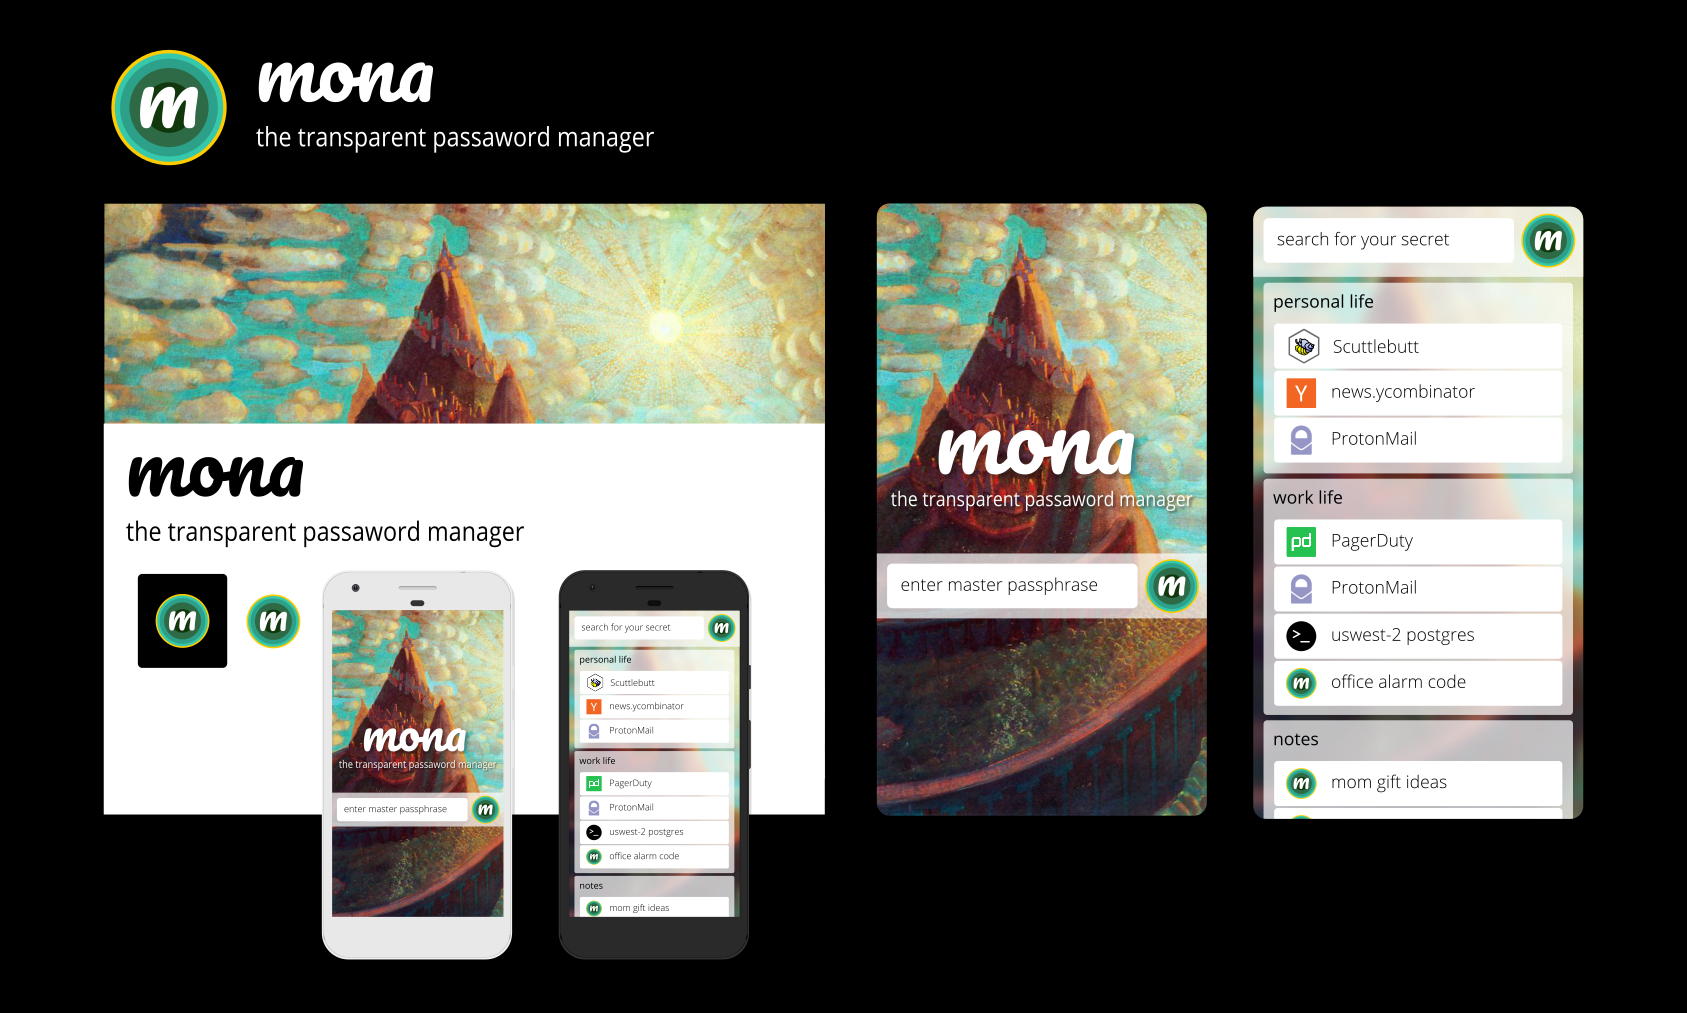
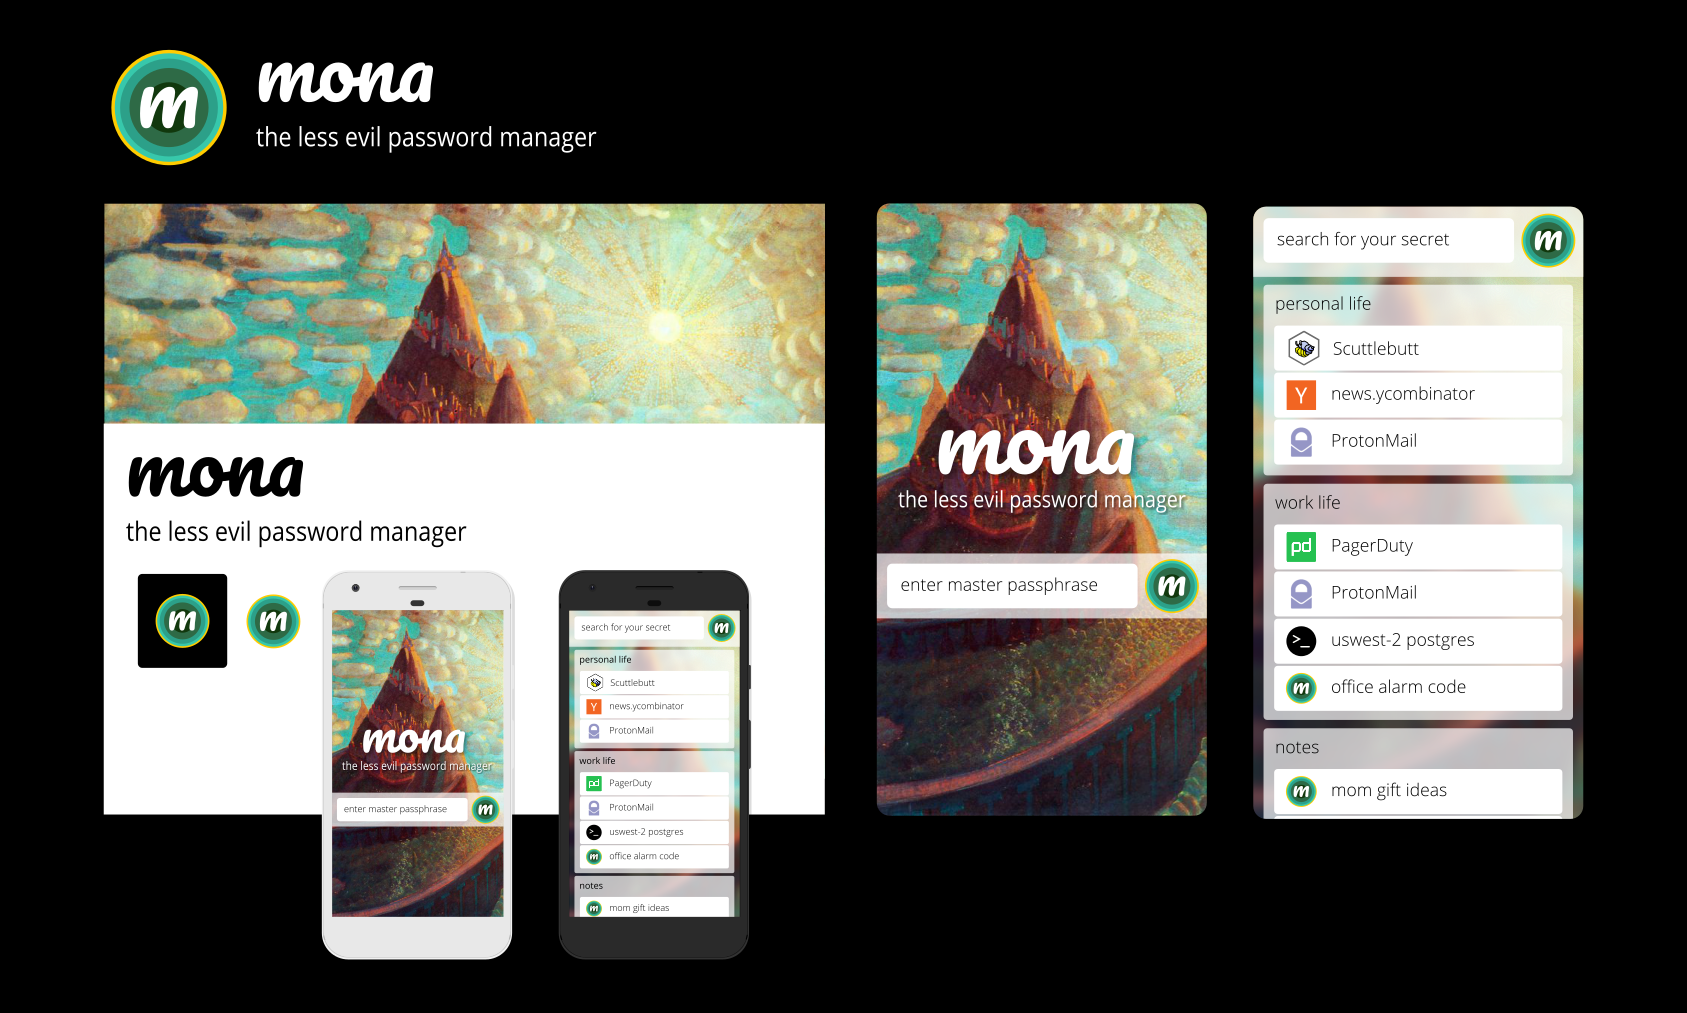
new tagline!

diff --git a/README.md b/README.md
@@ -1,4 +1,4 @@
-# Mona - the transparent password manager
+# Mona - the less evil password manager
 
 <img src="/assets/mona_design.png"></img>
 
